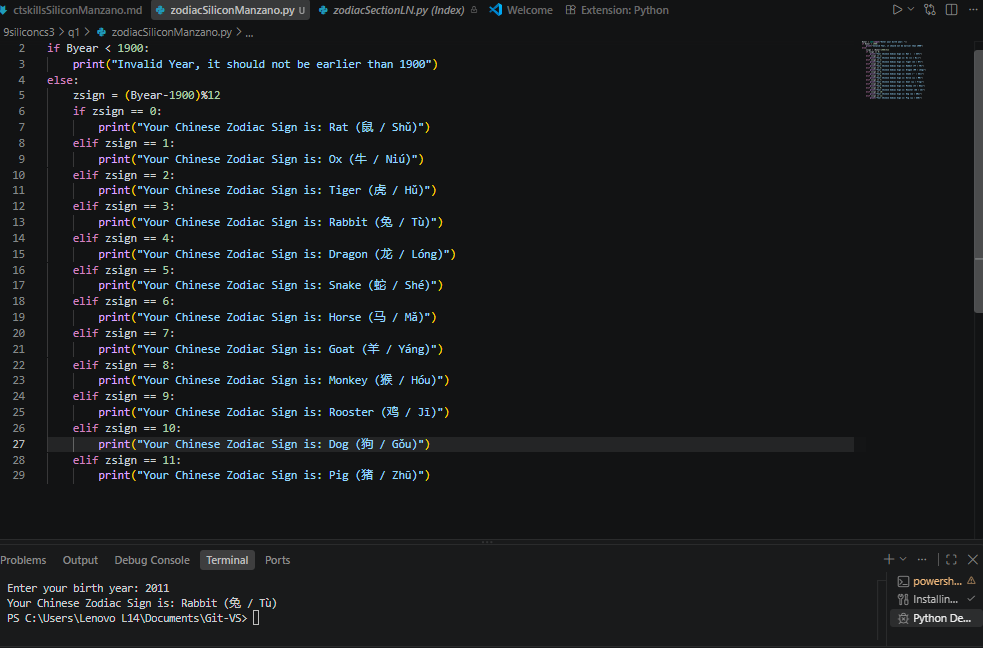
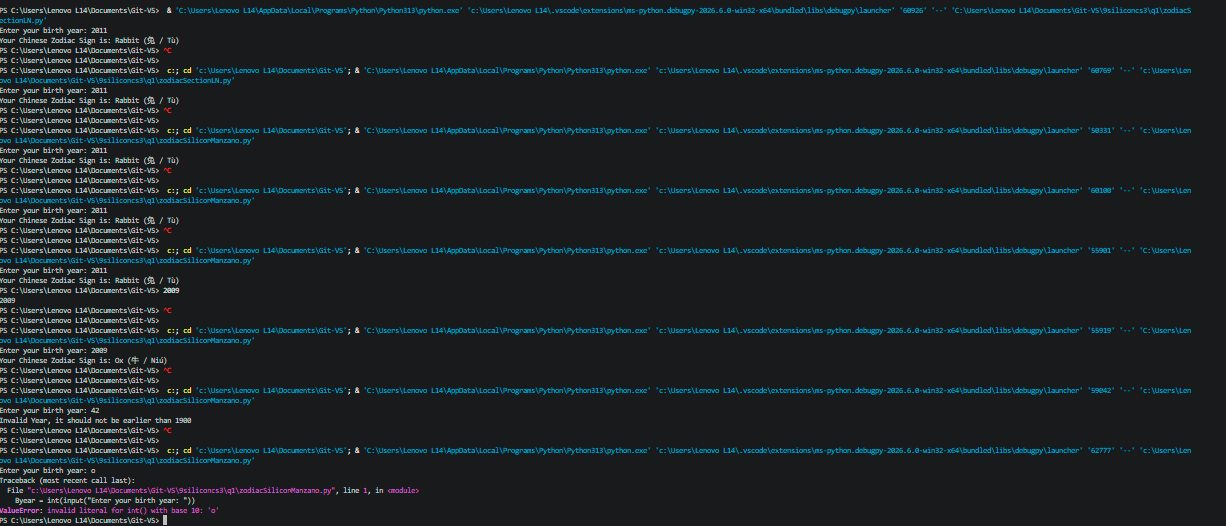
Submitted zodiacSiliconManzano

Changed region(s): [[0.0, 0.0, 1.0, 1.0]]

diff --git a/q1/zodiacSiliconManzano.py b/q1/zodiacSiliconManzano.py
@@ -1,0 +1,56 @@
+Byear = int(input("Enter your birth year: "))
+
+if Byear < 1900:
+
+    print("Invalid Year, it should not be earlier than 1900")
+    
+else:
+    zsign = (Byear-1900)%12
+
+    if zsign == 0:
+
+        print("Your Chinese Zodiac Sign is: Rat (鼠 / Shǔ)")
+
+    elif zsign == 1:
+
+        print("Your Chinese Zodiac Sign is: Ox (牛 / Niú)")
+
+    elif zsign == 2:
+
+        print("Your Chinese Zodiac Sign is: Tiger (虎 / Hǔ)")
+
+    elif zsign == 3:
+
+        print("Your Chinese Zodiac Sign is: Rabbit (兔 / Tù)")
+
+    elif zsign == 4:
+
+        print("Your Chinese Zodiac Sign is: Dragon (龙 / Lóng)")
+
+    elif zsign == 5:
+
+        print("Your Chinese Zodiac Sign is: Snake (蛇 / Shé)")
+
+    elif zsign == 6:
+
+        print("Your Chinese Zodiac Sign is: Horse (马 / Mǎ)")
+
+    elif zsign == 7:
+
+        print("Your Chinese Zodiac Sign is: Goat (羊 / Yáng)")
+
+    elif zsign == 8:
+
+        print("Your Chinese Zodiac Sign is: Monkey (猴 / Hóu)")
+
+    elif zsign == 9:
+
+        print("Your Chinese Zodiac Sign is: Rooster (鸡 / Jī)")
+
+    elif zsign == 10:
+
+        print("Your Chinese Zodiac Sign is: Dog (狗 / Gǒu)")
+
+    elif zsign == 11:
+
+        print("Your Chinese Zodiac Sign is: Pig (猪 / Zhū)")

diff --git a/q1/zodiacSiliconManzano.md b/q1/zodiacSiliconManzano.md
@@ -1,31 +1,3 @@
+![alt text](image-1.png)
 ![alt text](image.png)
-
-Byear = int(input("Enter your birth year: "))
-if Byear < 1900:
-    print("Invalid Year, it should not be earlier than 1900")
-else:
-    zsign = (Byear-1900)%12
-    if zsign == 0:
-        print("Your Chinese Zodiac Sign is: Rat (鼠 / Shǔ)")
-    elif zsign == 1:
-        print("Your Chinese Zodiac Sign is: Ox (牛 / Niú)")
-    elif zsign == 2:
-        print("Your Chinese Zodiac Sign is: Tiger (虎 / Hǔ)")
-    elif zsign == 3:
-        print("Your Chinese Zodiac Sign is: Rabbit (兔 / Tù)")
-    elif zsign == 4:
-        print("Your Chinese Zodiac Sign is: Dragon (龙 / Lóng)")
-    elif zsign == 5:
-        print("Your Chinese Zodiac Sign is: Snake (蛇 / Shé)")
-    elif zsign == 6:
-        print("Your Chinese Zodiac Sign is: Horse (马 / Mǎ)")
-    elif zsign == 7:
-        print("Your Chinese Zodiac Sign is: Goat (羊 / Yáng)")
-    elif zsign == 8:
-        print("Your Chinese Zodiac Sign is: Monkey (猴 / Hóu)")
-    elif zsign == 9:
-        print("Your Chinese Zodiac Sign is: Rooster (鸡 / Jī)")
-    elif zsign == 10:
-        print("Your Chinese Zodiac Sign is: Dog (狗 / Gǒu)")
-    elif zsign == 11:
-        print("Your Chinese Zodiac Sign is: Pig (猪 / Zhū)")
+[Click here to view zodiacSiliconManzano.py in q1](./q1/zodiacSiliconManzano.py)
